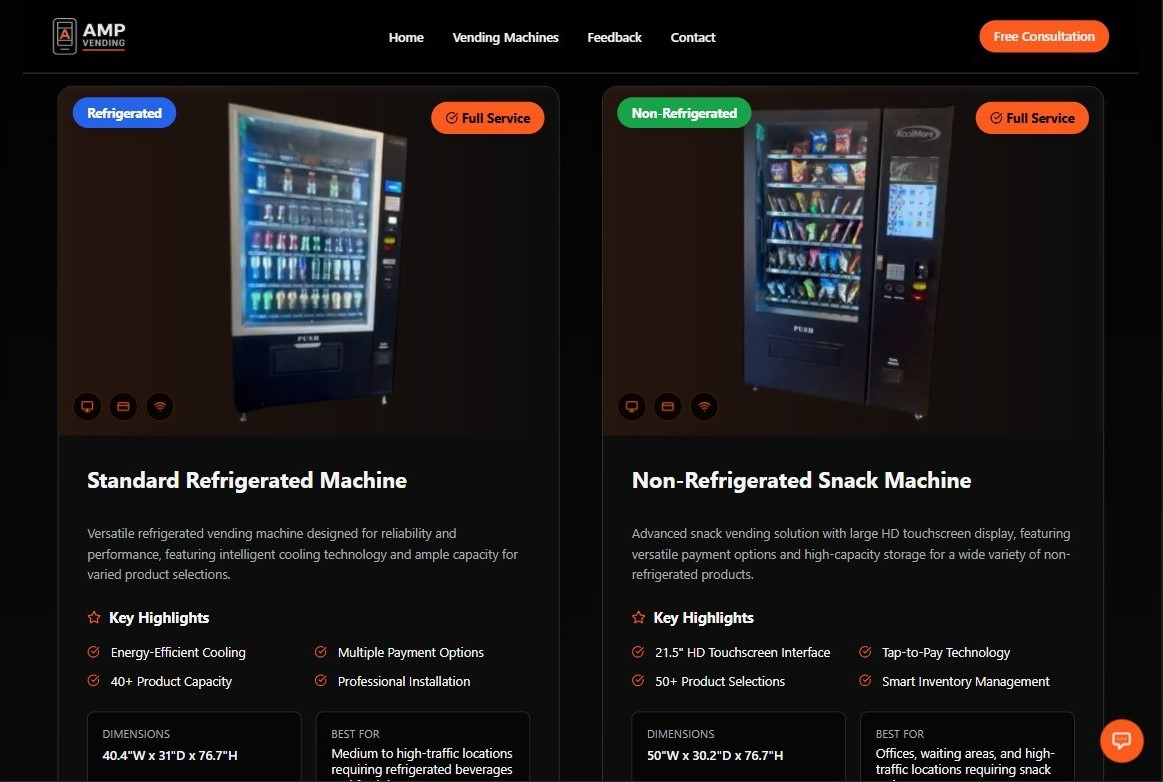
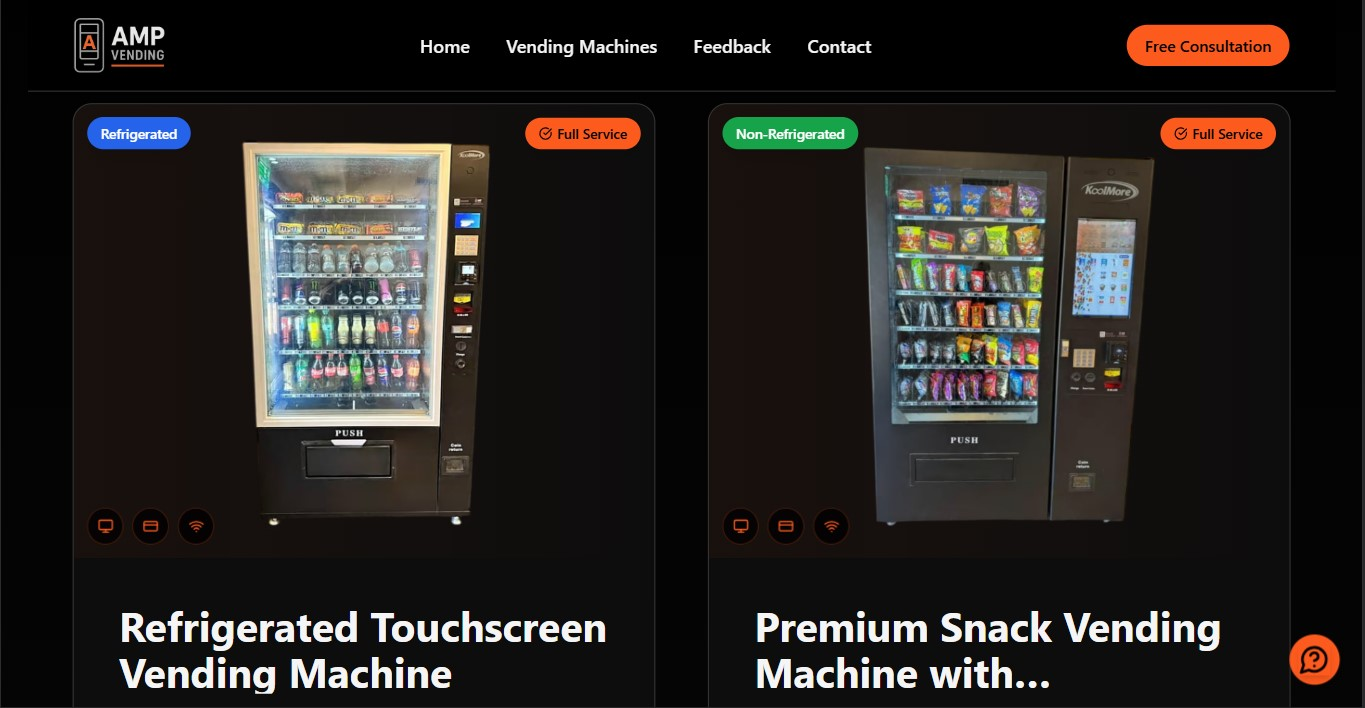
updated preview photos, removed unused images

diff --git a/README.md b/README.md
@@ -304,5 +304,5 @@ npm run export  # For static export (if configured)
 
 
 
-*Built with ❤ using Next.js, TypeScript, and Tailwind CSS*
+*Built using Next.js, TypeScript, and Tailwind CSS*
 
